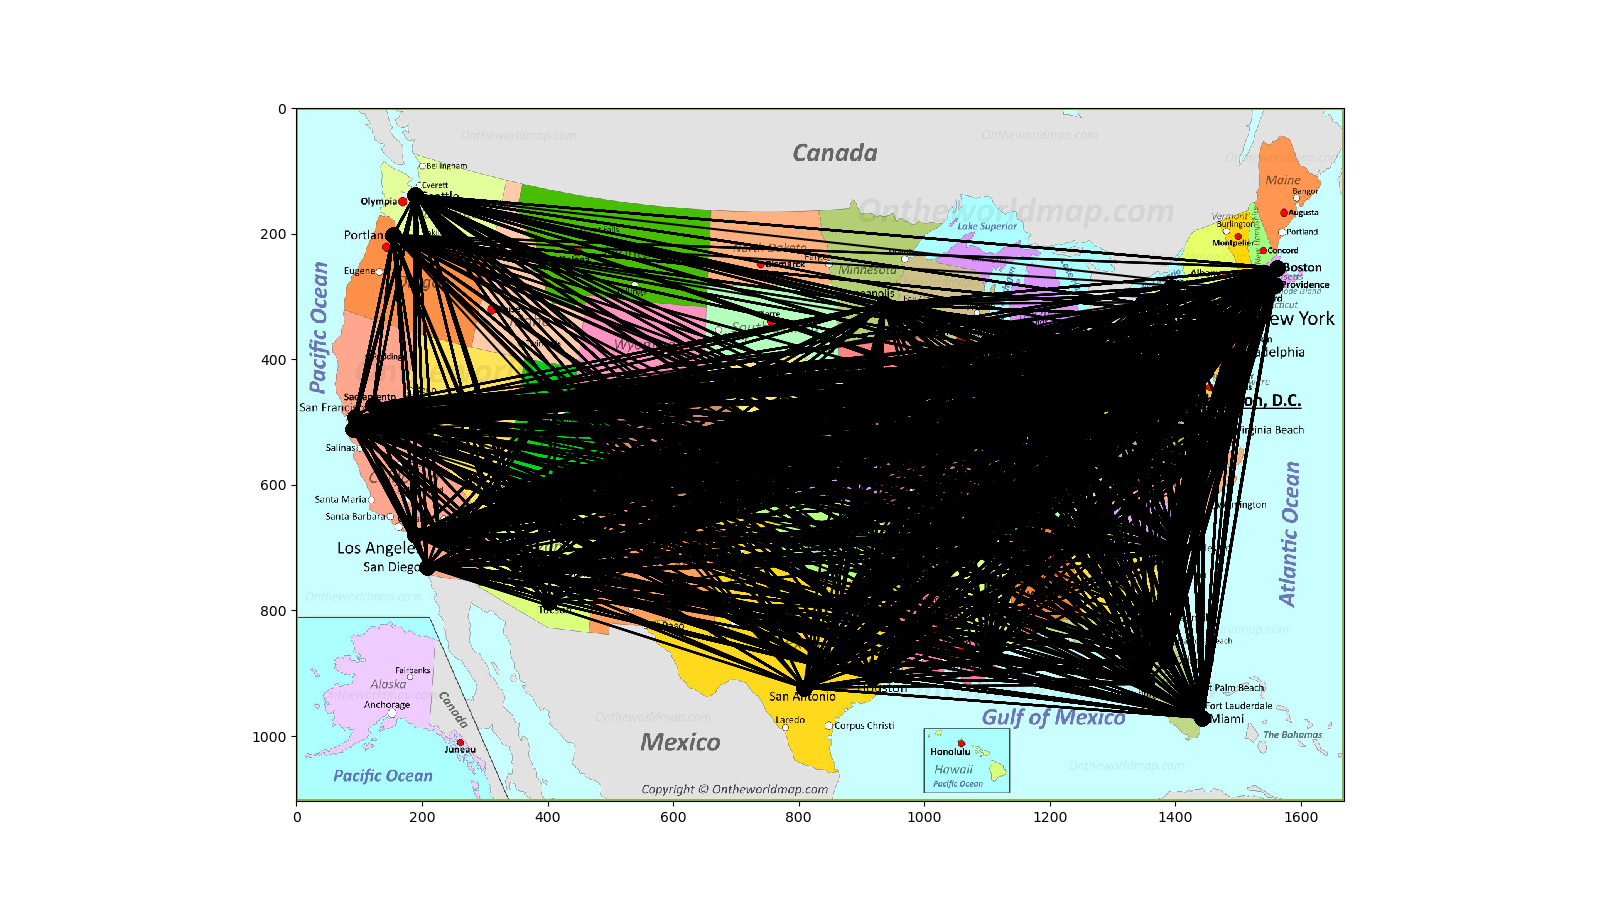
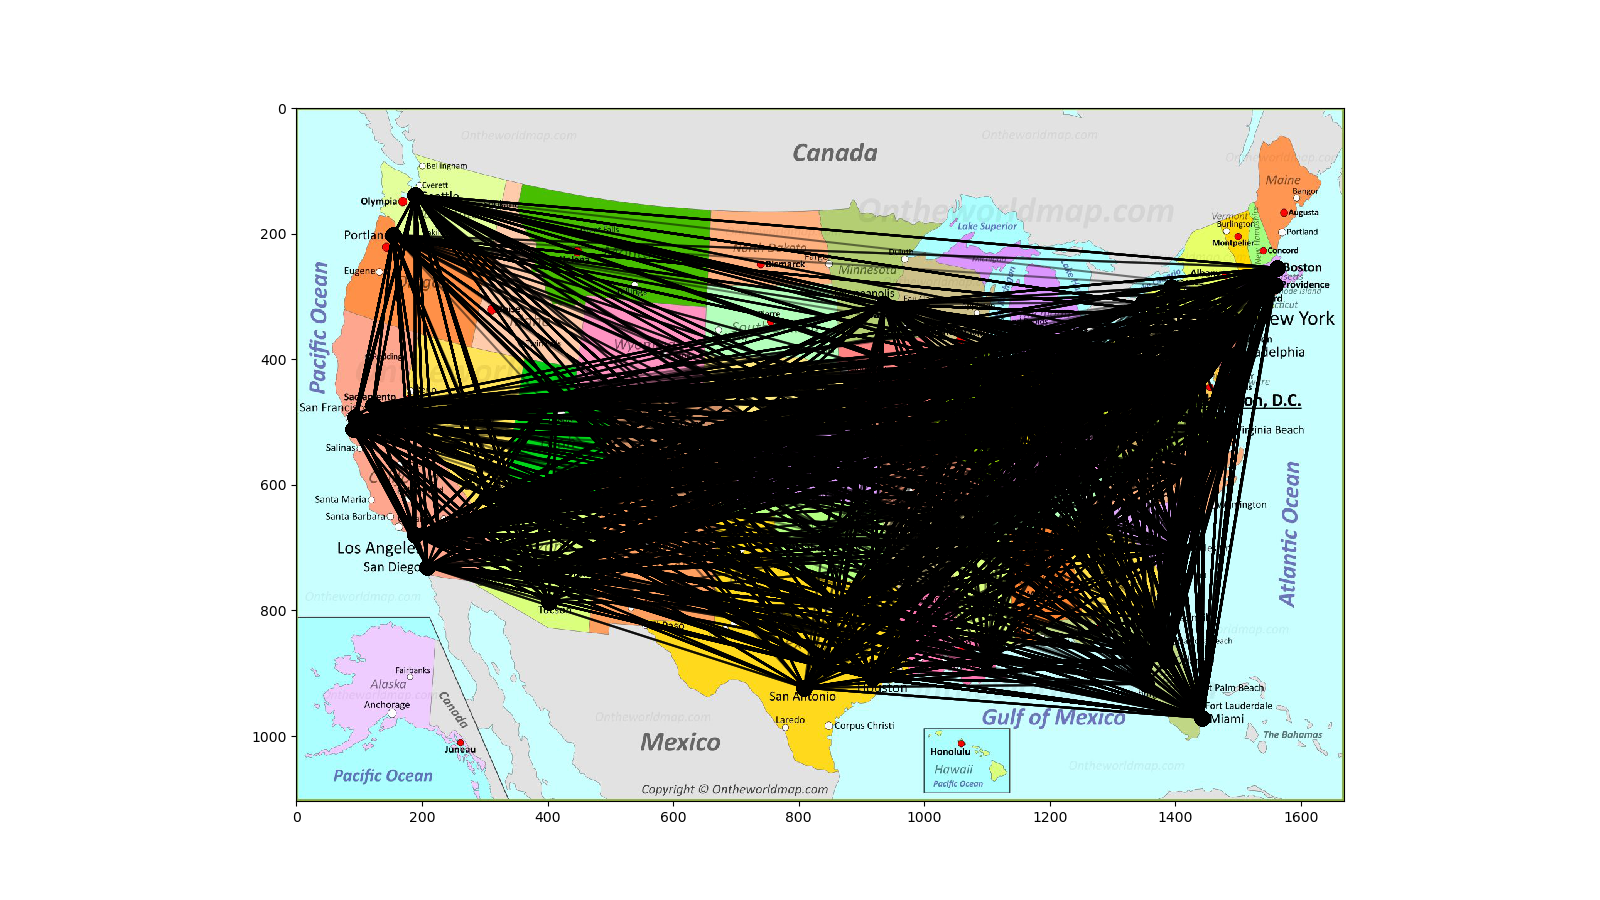
flight map

diff --git a/visualization.py b/visualization.py
@@ -265,7 +265,7 @@ def flight_map():
             or ac not in aircrafts.keys(): continue
         x = np.array([metro_coords[airports[origin]][0], metro_coords[airports[dest]][0]])
         y = np.array([metro_coords[airports[origin]][1], metro_coords[airports[dest]][1]])
-        ax.plot(x, y, color='black', marker='o', markersize=10) 
+        ax.plot(x, y, color='black', marker='o', alpha=0.5, markersize=10) 
     plt.savefig('data/flight_route_map_12-19.png')   
 
 def main():
